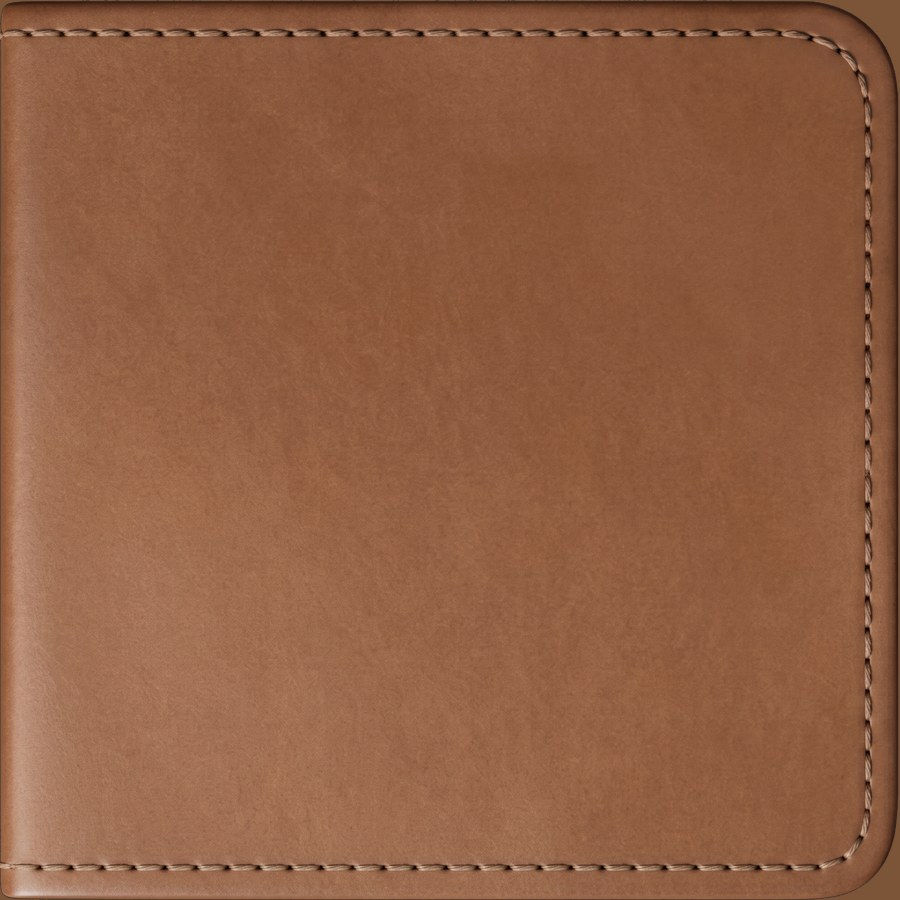
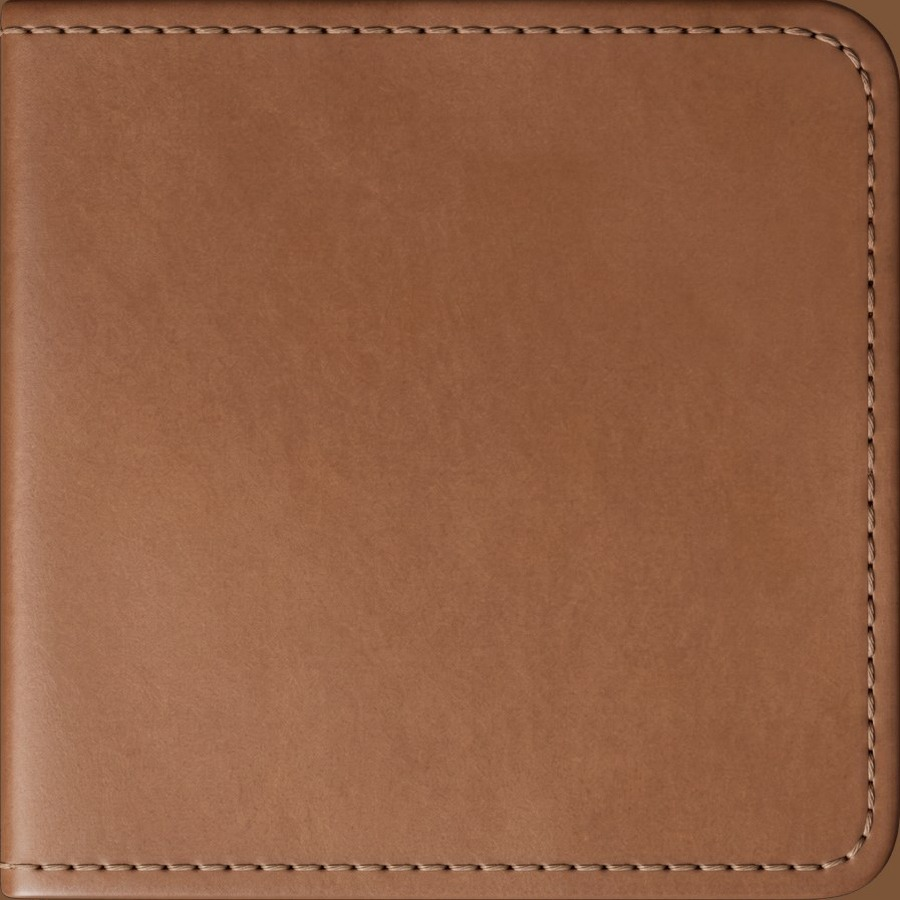
Start: the spine shadows grow in and out with the cover (no flash); leather trimmed to lose the light edge line
Claude-Session: https://claude.ai/code/session_01NDsvQ4w6b4M39K7iEhCswz

Changed region(s): [[0.0, 0.0, 1.0, 0.9644]]

diff --git a/src/screens/Start.js b/src/screens/Start.js
@@ -151,7 +151,8 @@ export default function Start({ u, go, openMenu, closed, onOpened, onClosed, onP
             <View style={[at2, styles.page, round, { justifyContent: 'center', alignItems: 'center', backgroundColor: colors.paper }]}>
               <View pointerEvents="none" style={[StyleSheet.absoluteFill, round, { overflow: 'hidden' }]}><Felt opacity={0.7} /></View>
               {/* spine shadow on the page: a soft one along the fold (the leather side gets the deeper one) */}
-              <View pointerEvents="none" style={[StyleSheet.absoluteFill, round, { overflow: 'hidden' }]}><Fade edge={wide ? 'left' : 'top'} size={Math.round(side * 0.17)} max={0.32} /></View>
+              {/* (it grows in as the cover opens, so it never pops) */}
+              <Animated.View pointerEvents="none" style={[StyleSheet.absoluteFill, round, { overflow: 'hidden', opacity: p.interpolate({ inputRange: [0, 0.6, 1], outputRange: [0, 0.4, 1] }) }]}><Fade edge={wide ? 'left' : 'top'} size={Math.round(side * 0.17)} max={0.32} /></Animated.View>
               <Spine wide={wide} />
               {/* the two items as one block, centred in the page */}
               <View style={{ gap: k * 8, transform: [{ translateX: k * 5 }] }}>{/* nudged a little to the right */}
@@ -171,7 +172,10 @@ export default function Start({ u, go, openMenu, closed, onOpened, onClosed, onP
                 <Animated.View pointerEvents="none" accessibilityLabel="Oomlaut Reader" style={[StyleSheet.absoluteFill, round, { overflow: 'hidden', opacity: backOp }]}>
                   {coverImg}
                   {/* the big spine shadow on the leather: along the edge it turns on, so it travels with the cover as it opens and closes */}
-                  <Fade edge={wide ? 'left' : 'top'} size={Math.round(side * 0.24)} max={0.55} />
+                  {/* fades in from the moment the inside of the cover shows, instead of appearing all at once */}
+                  <Animated.View style={[StyleSheet.absoluteFill, { opacity: p.interpolate({ inputRange: [0, 0.5, 1], outputRange: [0, 0, 1] }) }]}>
+                    <Fade edge={wide ? 'left' : 'top'} size={Math.round(side * 0.24)} max={0.55} />
+                  </Animated.View>
                 </Animated.View>
                 <Animated.View pointerEvents="none" style={[StyleSheet.absoluteFill, round, { backgroundColor: '#000', opacity: shade }]} />
               </Animated.View>
